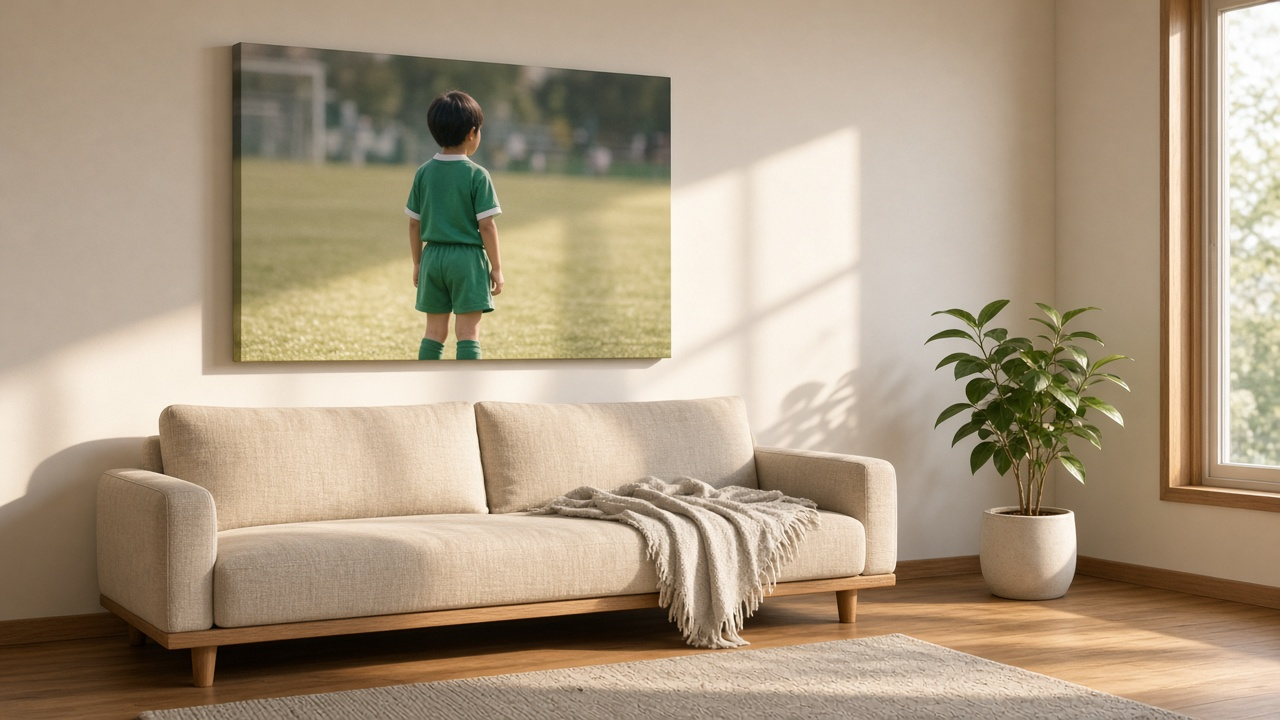
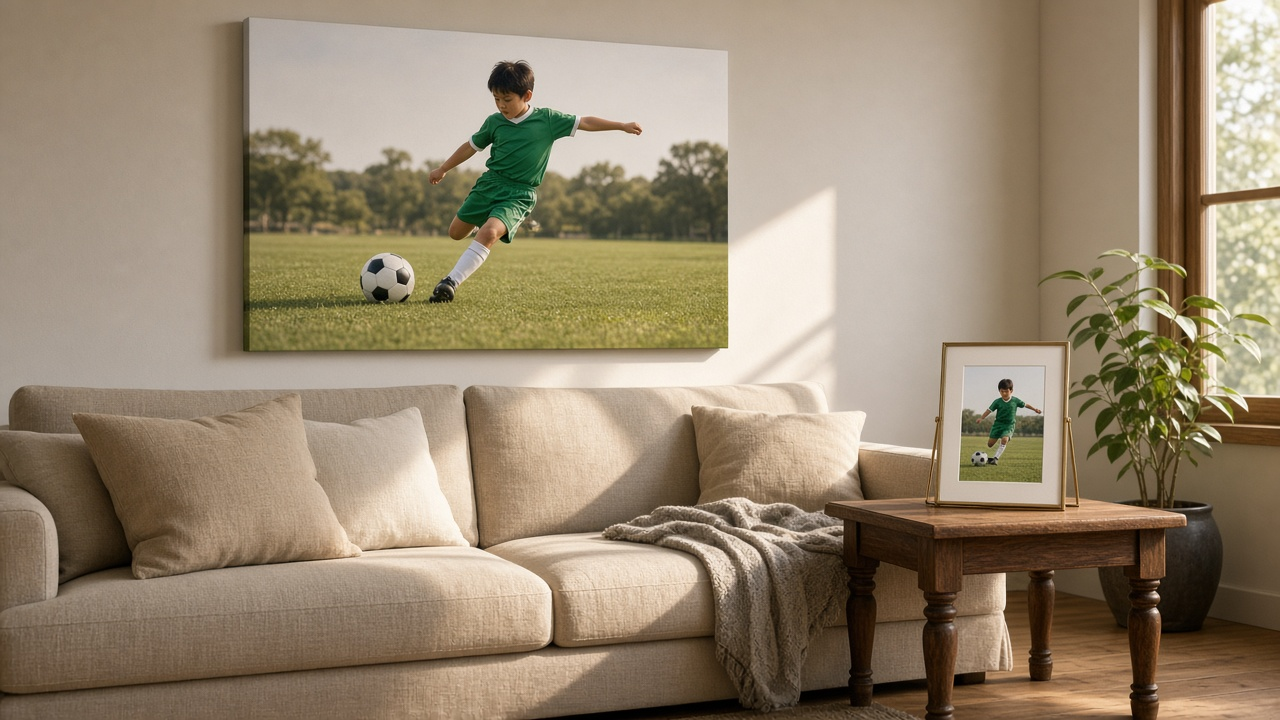
あ

diff --git a/index.html b/index.html
@@ -197,18 +197,19 @@
     <section class="opening" id="top">
       <div class="wrap">
         <p class="ink-scatter" aria-hidden="true"></p>
-        <h1>このAI時代に、<br><span class="paint">想い出を一生物の<br class="h-break">カタチに。</span></h1>
         <div class="hero-row">
-          <div>
-            <p class="hero-lead">Kepty Printは、サッカークラブに所属する選手の保護者のための工房です。小学生から大学生まで。そこにいた日の写真だけを、キャンバスプリントと写真立てにします。写真立ては税込4,900円、キャンバスプリントは税込9,800円から48,000円です。生成した画像は受けません。</p>
-            <p class="linkrow">
-              <a href="#works">二つの作品を見る</a>
-              <a href="#thought">思想を読む</a>
-            </p>
+          <div class="hero-copy">
+            <h1>いつか、スパイクを脱ぐ日が来るから。<br>その本気の記憶を、<span class="paint">一生ものの芸術へ。</span></h1>
+            <div class="hero-message">
+              <p>AIがどんな美しい絵も創れる時代になっても、<br>あの日、我が子が流した汗と涙の価値は超えられない。</p>
+              <p>泥だらけのユニフォームも、悔しさに震えた背中も。<br>あなたと我が子が共に戦った眩しい日々は、永遠ではないから。</p>
+              <p>データの海に、埋もれさせないで。<br>手で触れられる「本物」として、その愛を永遠の形に。</p>
+              <p class="hero-lead">Kepty Printは、サッカークラブに所属する選手の保護者のための工房です。<br>小学生から大学生まで。<br>そこにいた日の写真だけを、最高峰のキャンバスプリントと写真立てに。</p>
+            </div>
           </div>
           <figure class="hero-figure">
             <div class="img-wrap proof">
-              <img class="tone" src="images/room.jpg" width="1280" height="720" alt="午後のリビングの壁に、緑のユニフォームの子どもの写真がキャンバスで掛かっている。" fetchpriority="high">
+              <img class="tone" src="images/room.jpg" width="1280" height="720" alt="リビングの壁に、ボールを蹴る緑のユニフォームの写真がキャンバスで掛かり、脇の机には真鍮の写真立てが置いてある。" fetchpriority="high">
             </div>
           </figure>
         </div>

diff --git a/css/style.css b/css/style.css
@@ -160,9 +160,9 @@ button, input, select, textarea { font: inherit; color: inherit; }
 .opening { padding: 28px 0 56px; }
 
 h1 {
-  margin: 0 0 0.55em;
-  font-size: clamp(1.85rem, 5.4vw, 4.35rem);
-  line-height: 1.22;
+  margin: 0 0 0.7em;
+  font-size: clamp(1.55rem, 2.5vw, 2.15rem);
+  line-height: 1.45;
   letter-spacing: 0.01em;
   font-weight: 500;
 }
@@ -171,21 +171,18 @@ h1 {
   .h-break { display: none; }
 }
 
+.hero-message p {
+  margin: 0 0 0.9em;
+  font-size: 1.02rem;
+  line-height: 1.9;
+  max-width: 36rem;
+}
+
 .hero-lead {
-  font-size: 1.05rem;
-  max-width: 38rem;
+  margin-top: 0.35em;
 }
 
-.linkrow {
-  display: flex;
-  flex-wrap: wrap;
-  gap: 4px 26px;
-  margin: 4px 0 0;
-}
-
-.linkrow a { text-underline-offset: 0.28em; }
-
-.hero-row { margin-top: 28px; }
+.hero-row { margin-top: 8px; }
 
 .hero-figure { margin: 0; }
 
@@ -209,7 +206,7 @@ h1 {
   height: 72vw;
   max-height: 420px;
   object-fit: cover;
-  object-position: center 42%;
+  object-position: center 48%;
   filter: saturate(0.8) contrast(1.04);
   display: block;
 }
@@ -732,7 +729,7 @@ textarea:focus { border-bottom-width: 2px; }
     display: grid;
     grid-template-columns: minmax(280px, 0.9fr) 1.1fr;
     gap: 40px;
-    align-items: center;
+    align-items: start;
   }
 
   .hero-figure {
@@ -1068,8 +1065,6 @@ caption,
   border-radius: 2px;
   transform: rotate(12deg);
 }
-
-.linkrow a { text-decoration-color: var(--green); }
 
 .submit {
   background: var(--green-deep);
